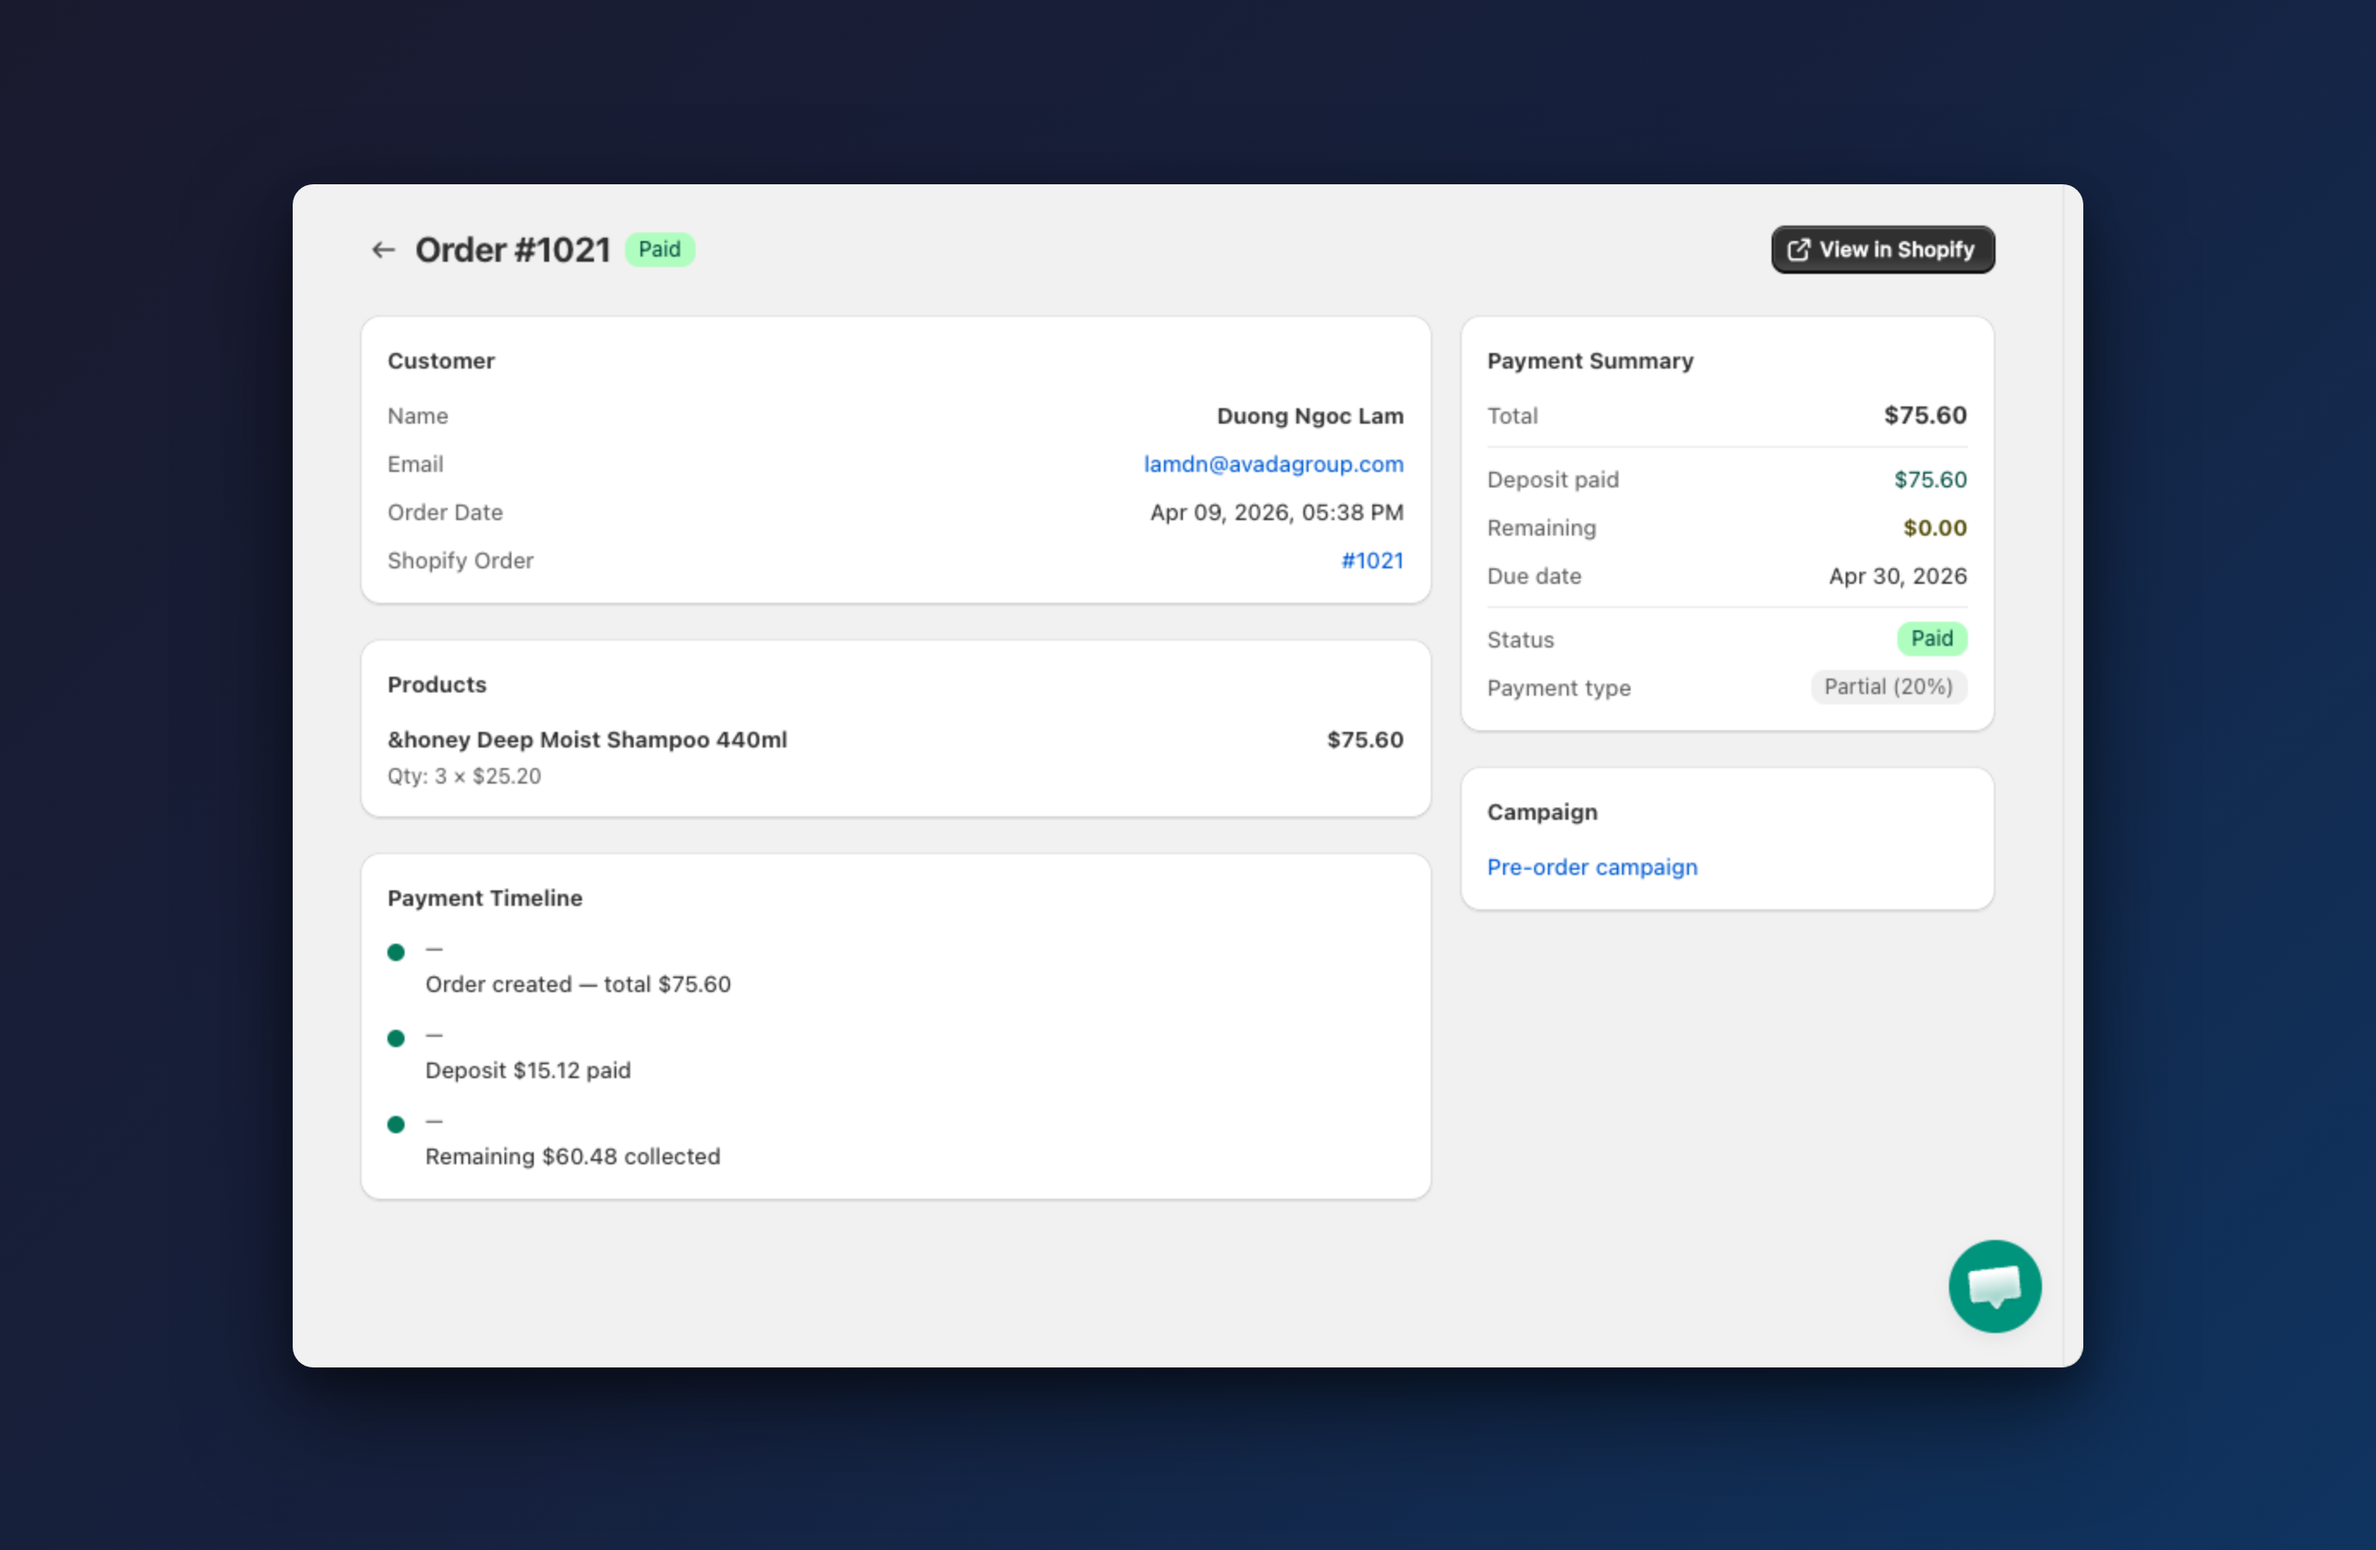
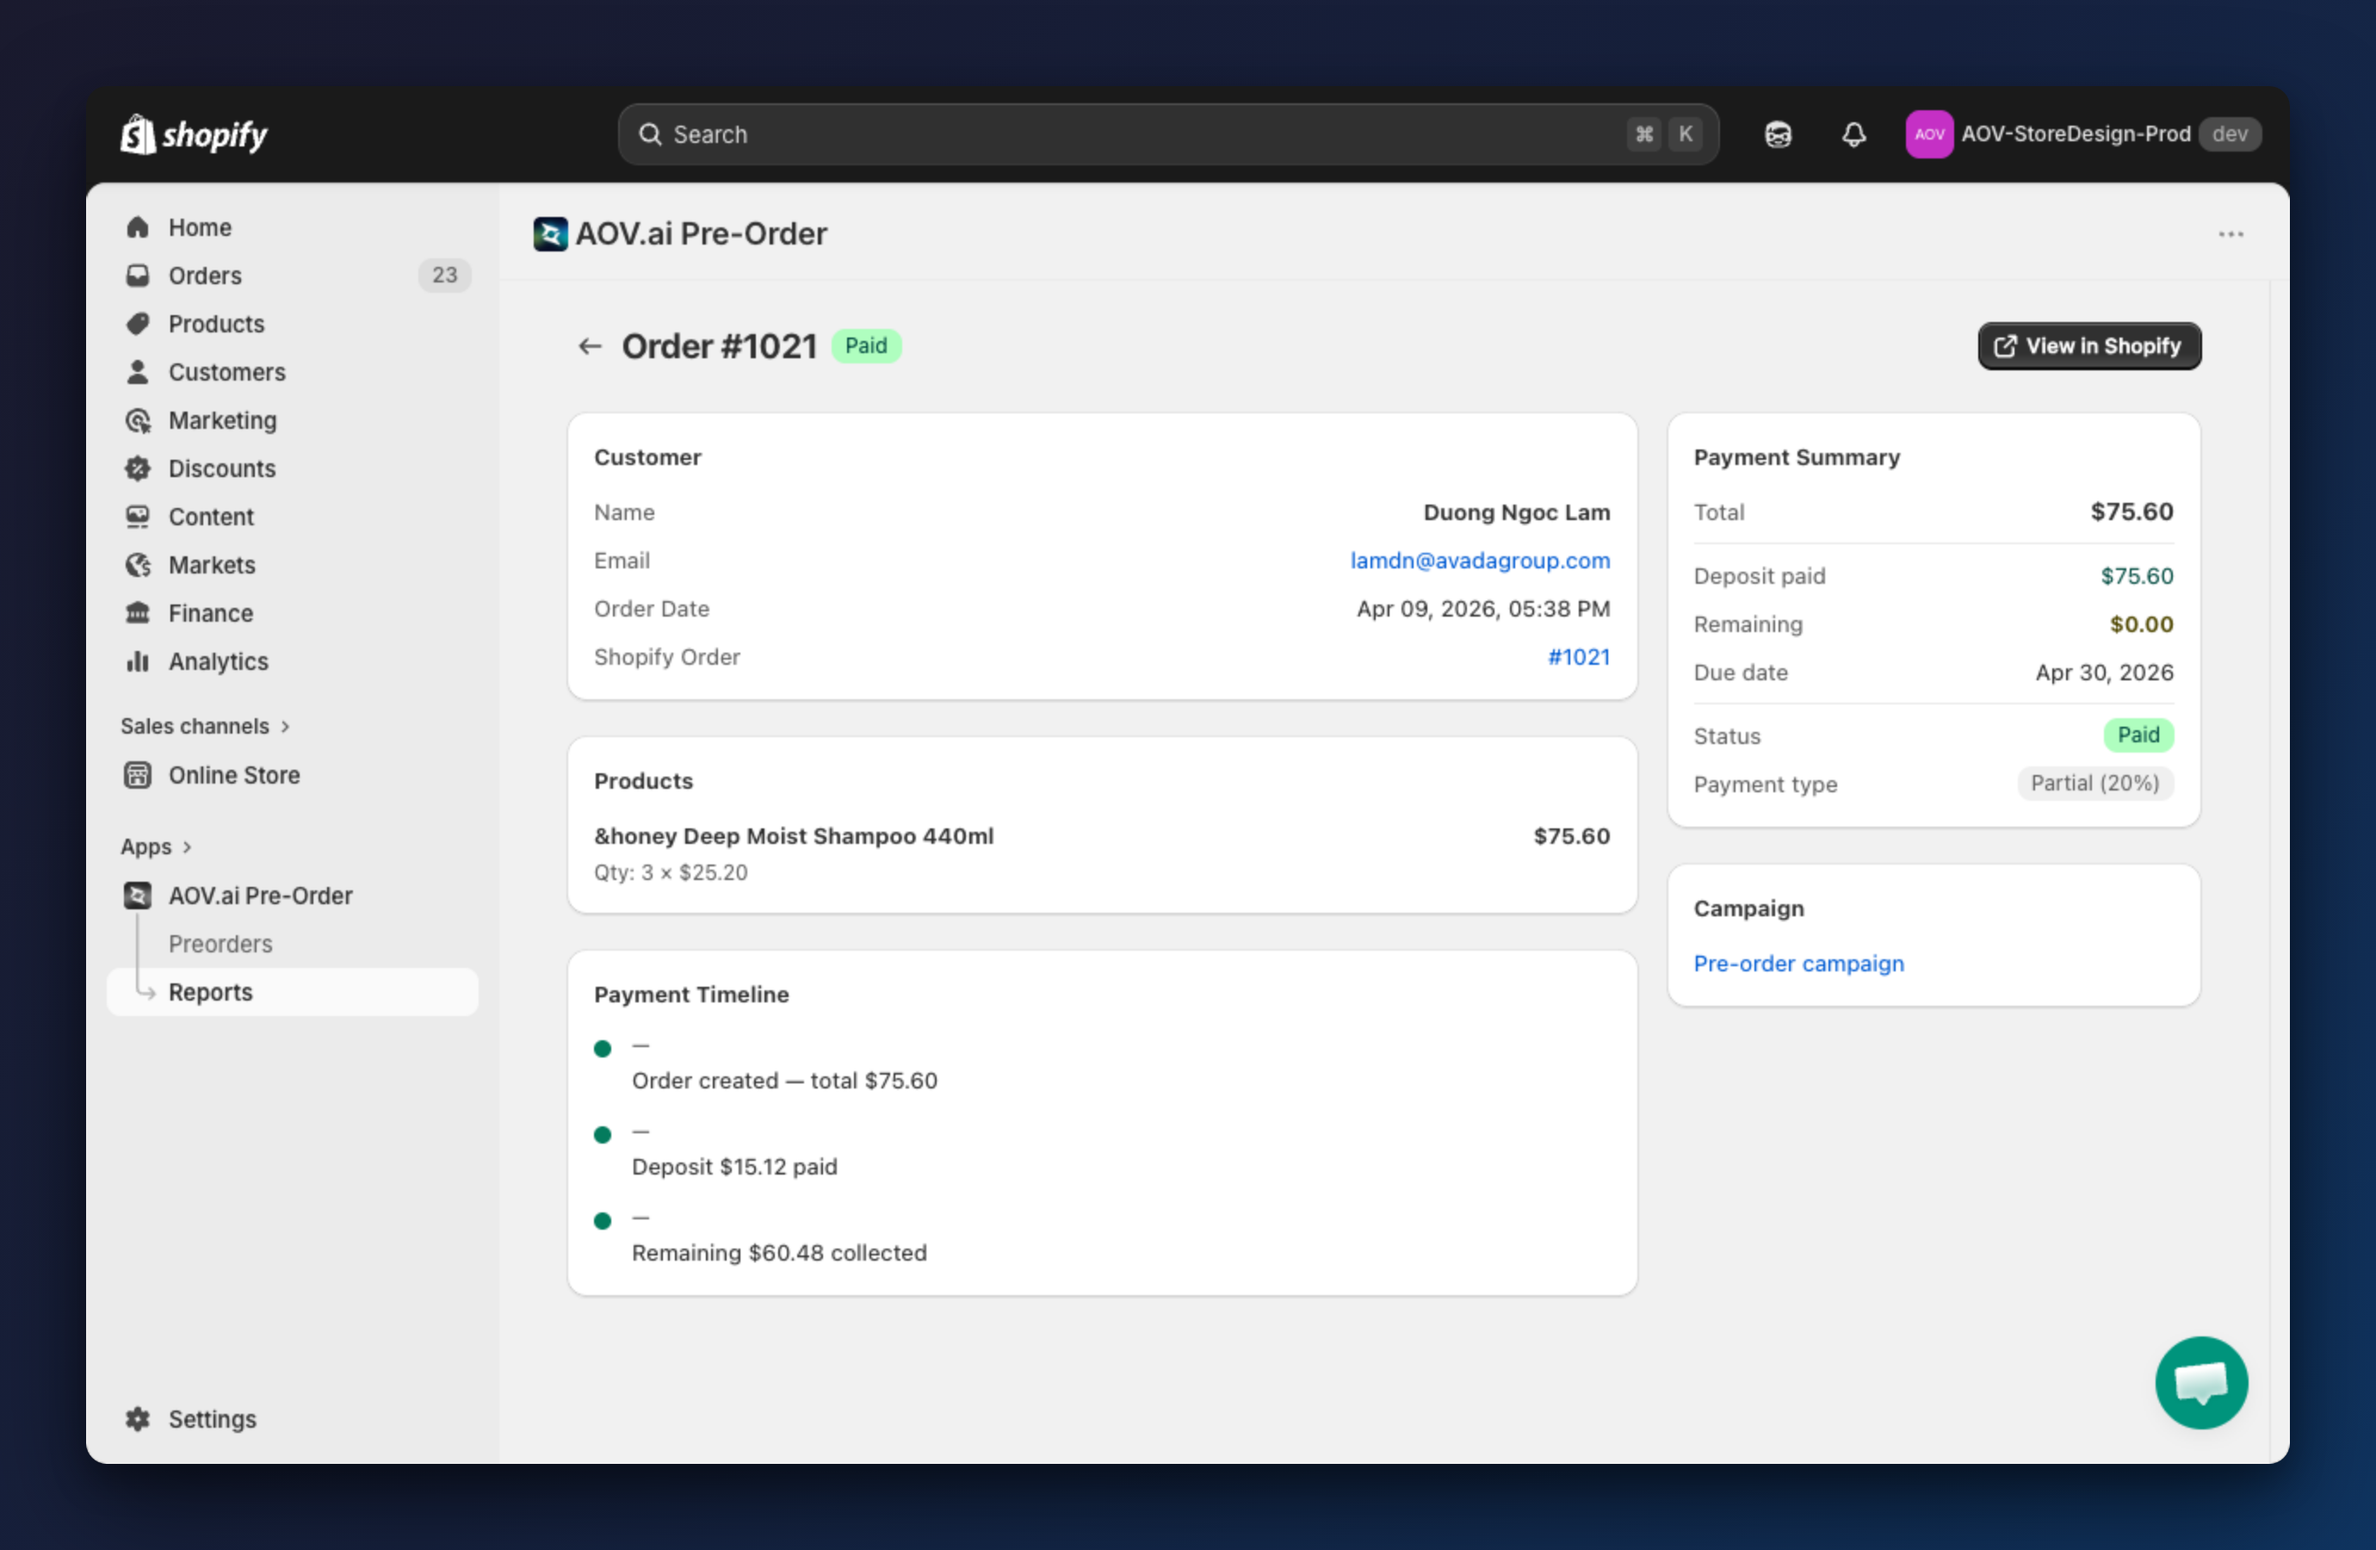
Merge feature guides into existing pages, use full-page screenshots

diff --git a/orders.md b/orders.md
@@ -108,3 +108,78 @@ The app automatically syncs orders via webhooks. Manual sync is only needed if y
 | **In Progress** | Order is being prepared/shipped |
 | **Partial** | Some items fulfilled, others pending |
 | **Fulfilled** | All items shipped/delivered |
+
+---
+
+## Collect Payment
+
+When a campaign uses **Partial payment**, customers pay a deposit at checkout and the remaining balance is collected later. The **Collect Payment** feature lets you manually trigger payment collection.
+
+### View order payment details
+
+Click any **order number** to open the detail page.
+
+![Order detail with payment summary](images/order-detail-framed.png)
+
+{% stepper %}
+
+{% step %}
+### Review payment summary
+
+The **Payment Summary** sidebar shows the current payment state:
+
+- **Total**: full order amount.
+- **Deposit paid**: amount already collected at checkout.
+- **Remaining**: outstanding balance due from the customer.
+- **Due date**: when the remaining balance is scheduled to be collected.
+- **Status**: current payment status.
+- **Payment type**: the payment method used (e.g., Partial 20%).
+{% endstep %}
+
+{% step %}
+### Review payment timeline
+
+The **Payment Timeline** section shows a chronological record of all payment events — order creation, deposit payment, and remaining balance collection (or failure).
+{% endstep %}
+
+{% step %}
+### Collect remaining balance (single order)
+
+When an order has a remaining balance, a **Collect remaining** button appears in the Payment Summary section. Click it to open the collection modal:
+
+- The modal shows the exact remaining amount to collect.
+- **Automatically send invoice if charge fails**: enabled by default. If the charge fails, the customer receives an invoice email with a link to pay manually.
+- Click **Collect payment** to process.
+
+{% hint style="info" %}
+The **Collect remaining** button only appears when the order status is **Partially paid**, **Failed**, or **Processing** and has a remaining balance greater than zero.
+{% endhint %}
+{% endstep %}
+
+{% step %}
+### Collect payments in bulk
+
+From the order list, use the checkboxes to select multiple orders with outstanding balances, then click **Collect payments**.
+
+- The modal shows how many orders will be processed.
+- For 50+ orders, a caution message warns that processing may take a few minutes.
+- A progress bar shows the collection progress.
+
+After collection, a toast notification shows results: collected, invoices sent, failed, and skipped counts.
+
+{% hint style="success" %}
+Tip: After bulk collection, check the **Failed** tab to follow up on orders that couldn't be charged.
+{% endhint %}
+{% endstep %}
+
+{% step %}
+### Invoice fallback
+
+When a charge fails and **Automatically send invoice if charge fails** is enabled:
+
+1. The app sends an invoice email to the customer via Shopify.
+2. The customer receives a link to complete payment manually.
+3. You can customize the invoice email template in **Shopify Admin > Settings > Notifications**.
+{% endstep %}
+
+{% endstepper %}

diff --git a/campaign-settings.md b/campaign-settings.md
@@ -81,6 +81,45 @@ The delivery information is shown to customers on the product page, cart, and or
 {% endstep %}
 
 {% step %}
+### Choose when to show Pre-Order
+
+![When to show Pre-Order and Continue Selling](images/step1-preorder-trigger-framed.png)
+
+Find the **When to show Pre-Order** card and select a trigger:
+
+- **Out of stock** *(Most common)* — the Pre-Order button appears only when a product variant's inventory reaches zero. While in stock, customers see "Add to Cart".
+- **Always** — the Pre-Order button appears for all products in this campaign, regardless of stock level.
+
+| Trigger | Product in stock | Product out of stock |
+|---------|-----------------|---------------------|
+| **Out of stock** | Shows "Add to Cart" | Shows "Pre-Order" |
+| **Always** | Shows "Pre-Order" | Shows "Pre-Order" |
+
+{% hint style="info" %}
+This setting **cannot be changed while the campaign is active**. Pause the campaign or duplicate it to use a different trigger.
+{% endhint %}
+{% endstep %}
+
+{% step %}
+### Configure Continue Selling
+
+![Continue Selling settings](images/step1-continue-selling-framed.png)
+
+In the **Continue Selling** card, choose how the app manages Shopify's inventory policy:
+
+- **Automatic** *(Recommended)* — the app automatically enables "Continue selling when out of stock" for campaign products, and restores the original setting when the campaign ends.
+- **Manual** — you manage "Continue selling" yourself in Shopify Admin. The app does not modify inventory policies.
+
+{% hint style="warning" %}
+If you choose **Manual** with the **Out of stock** trigger, make sure "Continue selling when out of stock" is enabled for all campaign products in Shopify Admin. Otherwise customers will see "Sold out" instead of "Pre-Order".
+{% endhint %}
+
+{% hint style="success" %}
+Tip: Unlike the pre-order trigger, you **can change** the continue selling mode on an active campaign. A confirmation modal will explain the immediate effect.
+{% endhint %}
+{% endstep %}
+
+{% step %}
 ### Preview your settings
 
 The **Preview** panel (right side) shows a live preview of how the pre-order button, badge, and messages will appear on your storefront.

diff --git a/README.md b/README.md
@@ -51,10 +51,7 @@ Before setting up your first pre-order campaign, make sure you have:
 | Guide | Description |
 |-------|-------------|
 | [Campaign List](campaign-list.md) | View, filter, and manage your pre-order campaigns |
-| [Campaign Settings (Step 1)](campaign-settings.md) | Configure campaign name, products, and delivery date |
-| [When to Show Pre-Order](when-to-show-preorder.md) | Choose when the Pre-Order button replaces "Add to Cart" |
-| [Continue Selling](continue-selling.md) | Manage Shopify's "Continue selling when out of stock" setting |
+| [Campaign Settings (Step 1)](campaign-settings.md) | Configure campaign name, products, pre-order trigger, continue selling, and delivery date |
 | [Payment Settings (Step 2)](payment-settings.md) | Choose full or partial payment, set deposit amount |
 | [Display Settings (Step 3)](display-settings.md) | Customize button, badge, and messages |
-| [Orders & Reports](orders.md) | View, filter, and export pre-order reports |
-| [Collect Payment](collect-payment.md) | Collect remaining balance from partial payment orders |
+| [Orders & Reports](orders.md) | View, filter, export pre-order reports, and collect payments |

diff --git a/SUMMARY.md b/SUMMARY.md
@@ -8,12 +8,9 @@
 
 * [Campaign List](campaign-list.md)
 * [Orders & Reports](orders.md)
-* [Collect Payment](collect-payment.md)
 
 ## PRE-ORDER CAMPAIGN
 
 * [Campaign Settings](campaign-settings.md)
-* [When to Show Pre-Order](when-to-show-preorder.md)
-* [Continue Selling](continue-selling.md)
 * [Payment Settings](payment-settings.md)
 * [Display Settings](display-settings.md)
